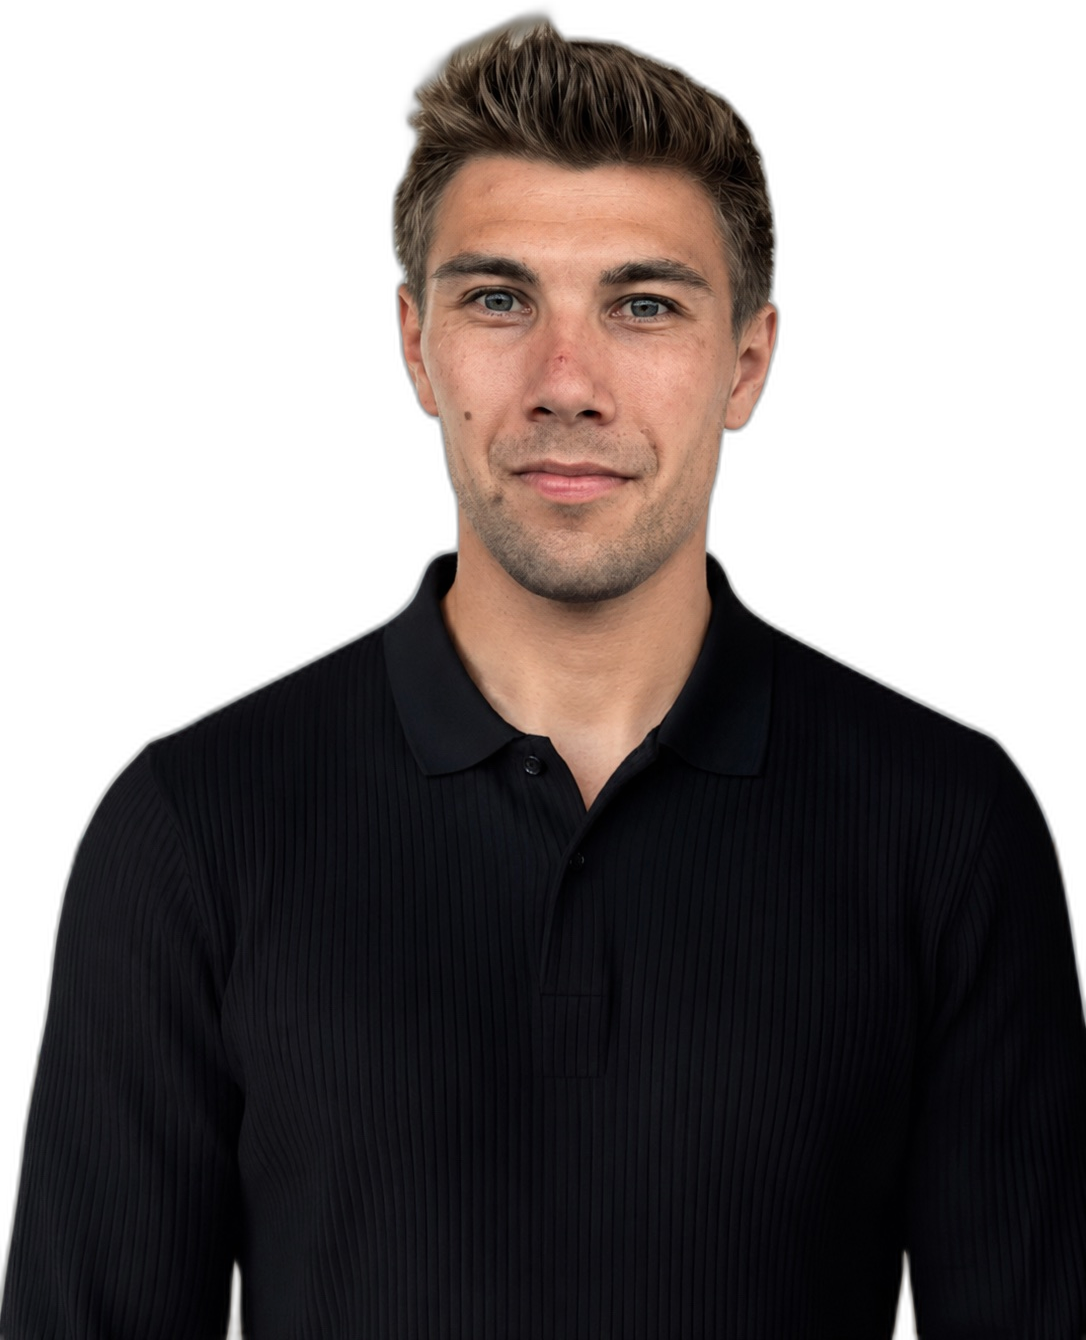
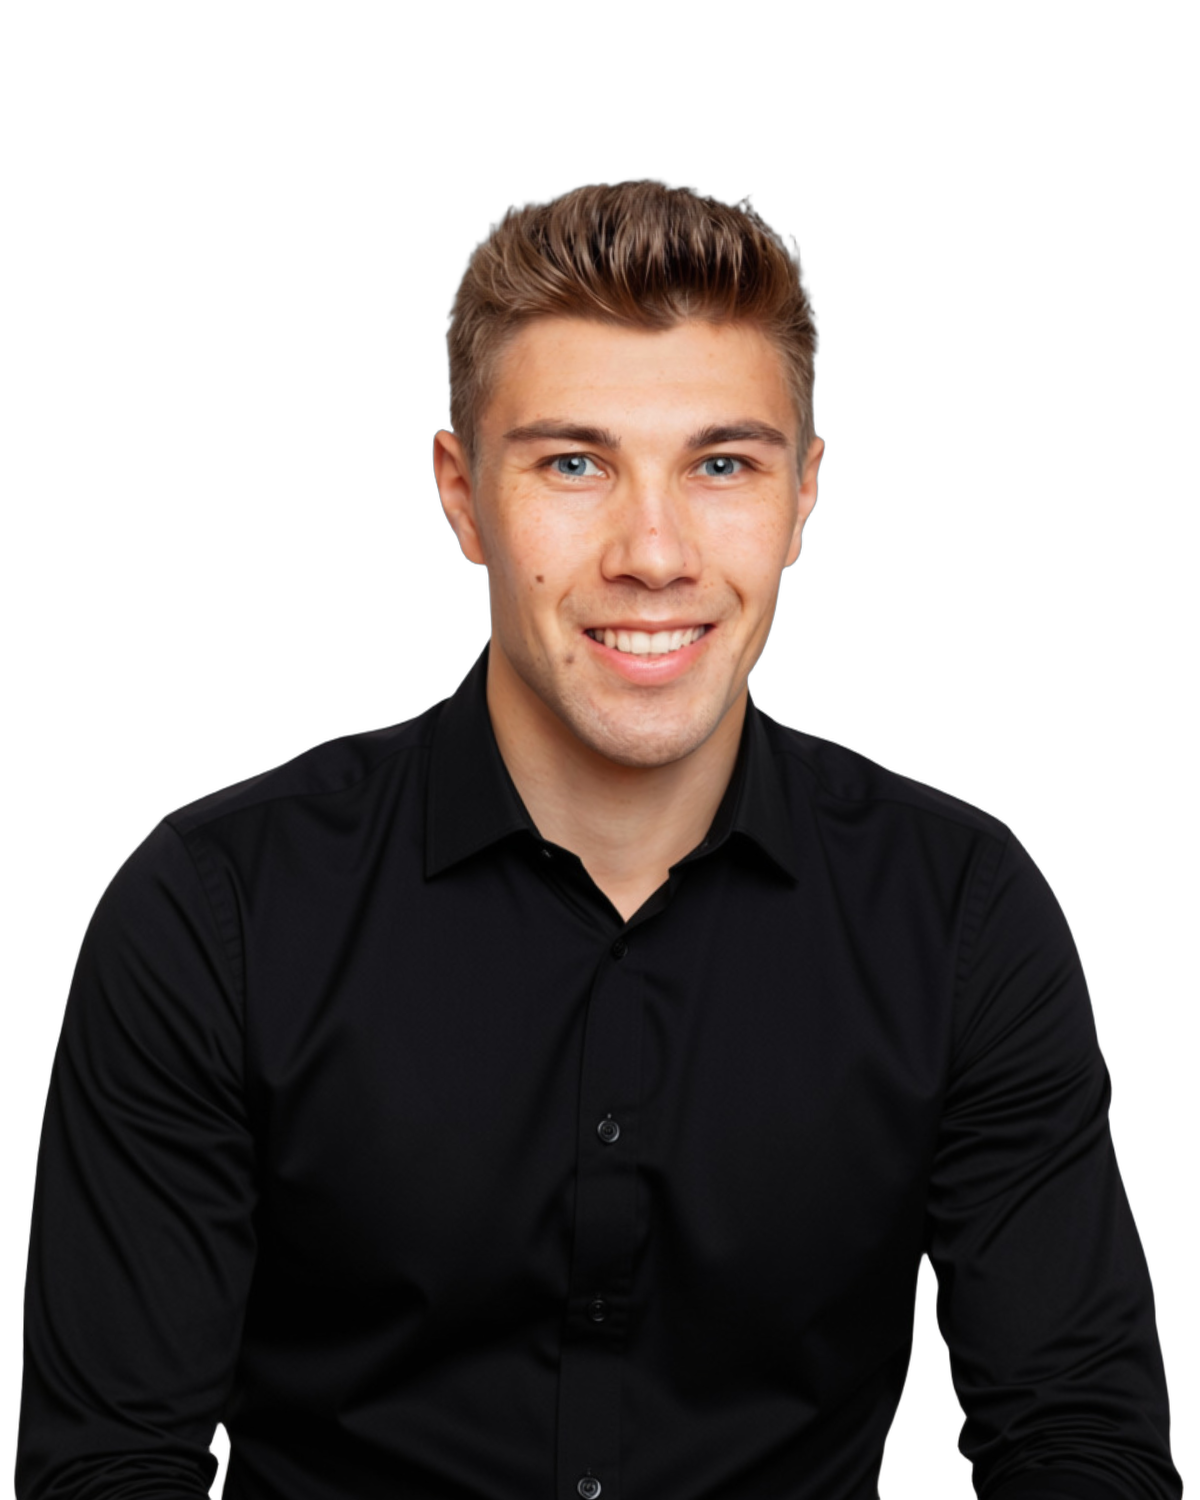
Update Andreas' photo, reorder team, adjust Hero contact badge
Swap Andreas and Florian's display order (Andreas first), replace
Andreas' profile photo with a new headshot and regenerate his Hero
cutout to match, and reword the Hero contact badge to emphasize
regional availability.

diff --git a/src/content/team.ts b/src/content/team.ts
@@ -10,7 +10,7 @@ export const team: TeamMember[] = [
       "Florian verbindet Beratungserfahrung mit einem klaren Blick für Wertschöpfung, Prozesse und mittelständische Realität.",
     focusAreas: ["Prozessberatung", "Mittelstand", "Vertrieb", "Umsetzung"],
     image: assetPath("/team/florian-gloebl.jpg"),
-    sortOrder: 1,
+    sortOrder: 2,
     visible: true,
   },
   {
@@ -27,8 +27,8 @@ export const team: TeamMember[] = [
       "Schulungen",
       "Praxis vor Ort",
     ],
-    image: assetPath("/team/andi.jpg"),
-    sortOrder: 2,
+    image: assetPath("/team/andi.png"),
+    sortOrder: 1,
     visible: true,
   },
   {

diff --git a/src/components/sections/Hero.tsx b/src/components/sections/Hero.tsx
@@ -143,7 +143,7 @@ export function Hero() {
               />
             </span>
             <span className="text-sm text-white/80">
-              Ihr fester Ansprechpartner: <span className="font-semibold text-white">{contactPerson.name}</span>
+              Ansprechpartner für Ihre Region: <span className="font-semibold text-white">{contactPerson.name}</span>
             </span>
           </motion.a>
         )}
